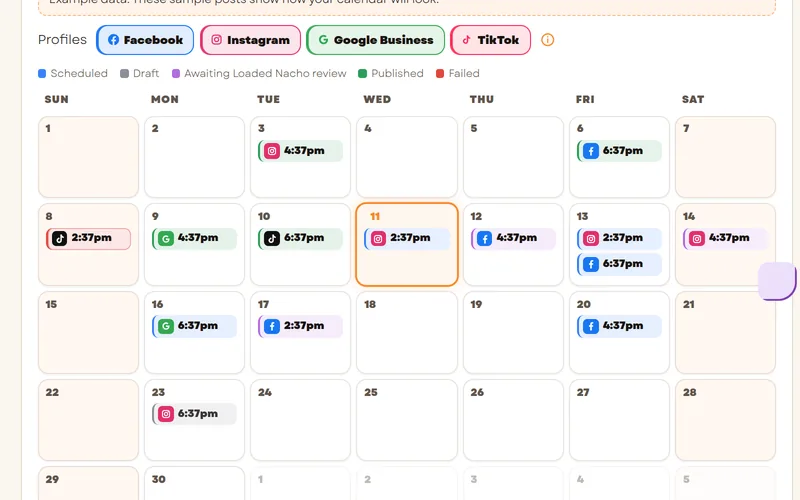
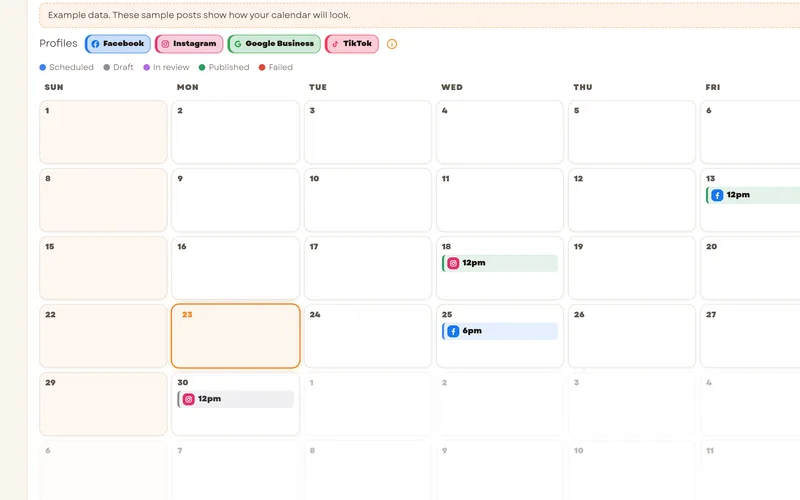
Mother Sauce screenshots: recapture all 11 from the 1.81.249 demo
The page still carried the Nov 11 old-UI set with fake reviews and active
badges. All 11 slots are now captured from the public demo in the client role
(Sample Owner), light theme, 2x, 1800x1200 window so the content column is
exactly 1500 CSS wide, then exported to the existing sizes.

- hero: five KPI cards with mixed results (visits 3% down, page views 3% down),
  today's hours, 7-day chart; no badges, no invented praise
- menu, reservations, catering menus (Party Trays), applications, team access,
  blog (published + scheduled + draft), notice contacts, social month view,
  review inbox (mixed ratings), analytics 30 days (visits 5% down, page views 2%
  up) - each from the current build, "Sample data" wording in every alt
- one new version everywhere: ?v=5 on all 11 images, both formats, the JSON-LD
  image and the hero on the main page
- alt text rewritten from Dot's table; no alt claims more than the shot shows

diff --git a/sites/loadednacho/public/mother-sauce.html b/sites/loadednacho/public/mother-sauce.html
@@ -16,7 +16,7 @@
 <meta property="og:image:alt" content="Loaded Nacho – restaurant websites and marketing in Oklahoma">
 <link rel="icon" href="/favicon.ico?v=8" sizes="48x48"><link rel="icon" type="image/png" sizes="32x32" href="/assets/img/favicon-32.png?v=8"><link rel="icon" type="image/png" sizes="16x16" href="/assets/img/favicon-16.png?v=8"><link rel="icon" type="image/png" sizes="192x192" href="/assets/img/favicon-192.png?v=8"><link rel="apple-touch-icon" href="/assets/img/apple-touch-icon.png?v=8"><link rel="preload" href="/assets/fonts/Garet-Heavy.woff2" as="font" type="font/woff2" crossorigin>
 
-<link rel="stylesheet" href="/assets/style.css?v=39"><link rel="stylesheet" href="/assets/theme.css?v=27"><link rel="stylesheet" href="/assets/ms.css?v=19"><script type="application/ld+json">{"@context": "https://schema.org", "@type": "SoftwareApplication", "name": "Mother Sauce", "url": "https://loadednacho.com/mother-sauce", "sameAs": ["https://mothersauce.app"], "applicationCategory": "BusinessApplication", "operatingSystem": "Web", "description": "Mother Sauce is the Loaded Nacho command center for restaurants: one sign-in to manage menus and hours, reservations, catering, hiring, team roles, blog, email alerts, social media, reputation and site analytics. A live demo with sample data is at https://mothersauce.app/demo.", "image": "https://loadednacho.com/assets/img/ms/ms-dashboard-hero.jpg?v=4", "potentialAction": {"@type": "ViewAction", "name": "Try the live demo", "target": "https://mothersauce.app/demo"}, "publisher": {"@type": "Organization", "name": "Loaded Nacho LLC", "url": "https://loadednacho.com/", "logo": {"@type": "ImageObject", "url": "https://loadednacho.com/assets/img/mark.png"}}}</script>
+<link rel="stylesheet" href="/assets/style.css?v=39"><link rel="stylesheet" href="/assets/theme.css?v=27"><link rel="stylesheet" href="/assets/ms.css?v=19"><script type="application/ld+json">{"@context": "https://schema.org", "@type": "SoftwareApplication", "name": "Mother Sauce", "url": "https://loadednacho.com/mother-sauce", "sameAs": ["https://mothersauce.app"], "applicationCategory": "BusinessApplication", "operatingSystem": "Web", "description": "Mother Sauce is the Loaded Nacho command center for restaurants: one sign-in to manage menus and hours, reservations, catering, hiring, team roles, blog, email alerts, social media, reputation and site analytics. A live demo with sample data is at https://mothersauce.app/demo.", "image": "https://loadednacho.com/assets/img/ms/ms-dashboard-hero.jpg?v=5", "potentialAction": {"@type": "ViewAction", "name": "Try the live demo", "target": "https://mothersauce.app/demo"}, "publisher": {"@type": "Organization", "name": "Loaded Nacho LLC", "url": "https://loadednacho.com/", "logo": {"@type": "ImageObject", "url": "https://loadednacho.com/assets/img/mark.png"}}}</script>
 </head><body>
 <div class="grain"></div>
 <header class="nav" id="nav"><a href="/" class="brand"><img src="/assets/img/mark.png" alt="" width="40" height="40"><span>LOADED<b>NACHO</b></span></a>
@@ -27,19 +27,19 @@
 <main>
 <section id="features" class="sec"><div class="head reveal"><p class="kicker">What's inside</p><h2>Everything in <span class="hl">one place.</span></h2><p class="small">Screens show a demo restaurant with sample data.</p></div>
 <div class="ms-shots">
-<div class="ms-shot reveal"><div class="txt"><h3>Menu Builder &amp; Hours</h3><p>Build and update your menu: dishes, prices, photos and sold-out items go live on your site. Set weekly hours for each location and handle holiday changes.</p></div><div class="ms-frame"><div class="bar"><i></i><i></i><i></i><span>mothersauce.app</span></div><picture><source type="image/webp" srcset="/assets/img/ms/ms-menu-builder.webp?v=4"><img src="/assets/img/ms/ms-menu-builder.jpg?v=4" alt="Mother Sauce menu builder with a Starters category: item name, price, description, photo, sold-out and catering toggles (demo data)" width="1500" height="938" loading="lazy" decoding="async"></picture></div></div>
-<div class="ms-shot reveal"><div class="txt"><h3>Reservations</h3><p>Every table request from your website lands in one list, so nothing slips through on a busy night.</p></div><div class="ms-frame"><div class="bar"><i></i><i></i><i></i><span>mothersauce.app</span></div><picture><source type="image/webp" srcset="/assets/img/ms/ms-reservations.webp?v=4"><img src="/assets/img/ms/ms-reservations.jpg?v=4" alt="Mother Sauce reservations screen with email alerts, booking rules, and upcoming bookings with call, email and status buttons (demo data)" width="1400" height="875" loading="lazy" decoding="async"></picture></div></div>
-<div class="ms-shot reveal"><div class="txt"><h3>Catering &amp; Catering Menus</h3><p>Publish catering menus separate from your main menu, and track every catering inquiry from first request to booked.</p></div><div class="ms-frame"><div class="bar"><i></i><i></i><i></i><span>mothersauce.app</span></div><picture><source type="image/webp" srcset="/assets/img/ms/ms-catering-menus.webp?v=4"><img src="/assets/img/ms/ms-catering-menus.jpg?v=4" alt="Mother Sauce catering menus screen showing a Party Trays menu with sizes, price per person, serves and minimum (demo data)" width="1500" height="938" loading="lazy" decoding="async"></picture></div></div>
+<div class="ms-shot reveal"><div class="txt"><h3>Menu Builder &amp; Hours</h3><p>Build and update your menu: dishes, prices, photos and sold-out items go live on your site. Set weekly hours for each location and handle holiday changes.</p></div><div class="ms-frame"><div class="bar"><i></i><i></i><i></i><span>mothersauce.app</span></div><picture><source type="image/webp" srcset="/assets/img/ms/ms-menu-builder.webp?v=5"><img src="/assets/img/ms/ms-menu-builder.jpg?v=5" alt="Mother Sauce menu builder with sample data: a Starters category and two items with prices, descriptions and sold-out toggles." width="1500" height="938" loading="lazy" decoding="async"></picture></div></div>
+<div class="ms-shot reveal"><div class="txt"><h3>Reservations</h3><p>Every table request from your website lands in one list, so nothing slips through on a busy night.</p></div><div class="ms-frame"><div class="bar"><i></i><i></i><i></i><span>mothersauce.app</span></div><picture><source type="image/webp" srcset="/assets/img/ms/ms-reservations.webp?v=5"><img src="/assets/img/ms/ms-reservations.jpg?v=5" alt="Mother Sauce reservations list with sample data: three upcoming requests with party sizes, notes and status controls." width="1400" height="875" loading="lazy" decoding="async"></picture></div></div>
+<div class="ms-shot reveal"><div class="txt"><h3>Catering &amp; Catering Menus</h3><p>Publish catering menus separate from your main menu, and track every catering inquiry from first request to booked.</p></div><div class="ms-frame"><div class="bar"><i></i><i></i><i></i><span>mothersauce.app</span></div><picture><source type="image/webp" srcset="/assets/img/ms/ms-catering-menus.webp?v=5"><img src="/assets/img/ms/ms-catering-menus.jpg?v=5" alt="Mother Sauce catering menus with sample data: a Party Trays menu with package sizes, price per person, servings and minimum." width="1500" height="938" loading="lazy" decoding="async"></picture></div></div>
 </div>
 <div class="head reveal ms-more-head"><p class="kicker">And more</p><h2>Everything else <span class="hl">you need.</span></h2></div>
 <div class="ms-grid">
-<article class="ms-card reveal"><div class="ms-frame"><picture><source type="image/webp" srcset="/assets/img/ms/ms-hiring-jobs-card.webp?v=4"><img src="/assets/img/ms/ms-hiring-jobs-card.jpg?v=4" alt="Mother Sauce job listings with pay, location, applicant counts and site status (demo data)" width="800" height="500" loading="lazy" decoding="async"></picture></div><h3>Hiring</h3><p>Post open jobs on your site and review applications as they come in.</p></article>
-<article class="ms-card reveal"><div class="ms-frame"><picture><source type="image/webp" srcset="/assets/img/ms/ms-team-roles-card.webp?v=4"><img src="/assets/img/ms/ms-team-roles-card.jpg?v=4" alt="Mother Sauce team screen: invite form with role presets and a per-section permission grid (demo data)" width="800" height="500" loading="lazy" decoding="async"></picture></div><h3>Team Roles</h3><p>Give managers and staff their own sign-in with the right level of access.</p></article>
-<article class="ms-card reveal"><div class="ms-frame"><picture><source type="image/webp" srcset="/assets/img/ms/ms-blog-card.webp?v=4"><img src="/assets/img/ms/ms-blog-card.jpg?v=4" alt="Mother Sauce blog posts list with published, scheduled and draft posts and a New post button (demo data)" width="800" height="500" loading="lazy" decoding="async"></picture></div><h3>Blog</h3><p>Write and publish posts to your website to share news, events and stories.</p></article>
-<article class="ms-card reveal"><div class="ms-frame"><picture><source type="image/webp" srcset="/assets/img/ms/ms-email-alerts-card.webp?v=4"><img src="/assets/img/ms/ms-email-alerts-card.jpg?v=4" alt="Mother Sauce notice contacts: email alert recipients with per-event toggles and Send test (demo data)" width="800" height="500" loading="lazy" decoding="async"></picture></div><h3>Email Alerts</h3><p>Get an email the moment a new reservation, catering request or application comes in.</p></article>
-<article class="ms-card reveal"><div class="ms-frame"><picture><source type="image/webp" srcset="/assets/img/ms/ms-social-card.webp?v=4"><img src="/assets/img/ms/ms-social-card.jpg?v=4" alt="Mother Sauce social calendar: an October month view with scheduled Facebook, Instagram, Google Business Profile and TikTok posts (demo data)" width="800" height="500" loading="lazy" decoding="async"></picture></div><h3>Social Media</h3><p>Schedule posts to Facebook, Instagram, Google Business Profile and TikTok — and let our AI replies handle the comments, messages and reviews that come back.</p></article>
-<article class="ms-card reveal"><div class="ms-frame"><picture><source type="image/webp" srcset="/assets/img/ms/ms-reputation-card.webp?v=4"><img src="/assets/img/ms/ms-reputation-card.jpg?v=4" alt="Mother Sauce review inbox: average rating and recent online reviews with new and done status and Open on Google buttons (demo data)" width="800" height="500" loading="lazy" decoding="async"></picture></div><h3>Reputation</h3><p>A review inbox with your recent online reviews, so you can see and respond to what guests are saying.</p></article>
-<article class="ms-card reveal"><div class="ms-frame"><picture><source type="image/webp" srcset="/assets/img/ms/ms-site-analytics-card.webp?v=4"><img src="/assets/img/ms/ms-site-analytics-card.jpg?v=4" alt="Mother Sauce analytics: visit and page view stats, a website traffic chart, traffic sources and top landing pages (demo data)" width="800" height="500" loading="lazy" decoding="async"></picture></div><h3>Site Analytics</h3><p>See how many people visit your site, where they come from and what they look at.</p></article>
+<article class="ms-card reveal"><div class="ms-frame"><picture><source type="image/webp" srcset="/assets/img/ms/ms-hiring-jobs-card.webp?v=5"><img src="/assets/img/ms/ms-hiring-jobs-card.jpg?v=5" alt="Mother Sauce applications with sample data: two new applications for a line cook and a server." width="800" height="500" loading="lazy" decoding="async"></picture></div><h3>Hiring</h3><p>Post open jobs on your site and review applications as they come in.</p></article>
+<article class="ms-card reveal"><div class="ms-frame"><picture><source type="image/webp" srcset="/assets/img/ms/ms-team-roles-card.webp?v=5"><img src="/assets/img/ms/ms-team-roles-card.jpg?v=5" alt="Mother Sauce team access with sample data: Owner/Admin and Manager/Viewer roles with location and section access." width="800" height="500" loading="lazy" decoding="async"></picture></div><h3>Team Roles</h3><p>Give managers and staff their own sign-in with the right level of access.</p></article>
+<article class="ms-card reveal"><div class="ms-frame"><picture><source type="image/webp" srcset="/assets/img/ms/ms-blog-card.webp?v=5"><img src="/assets/img/ms/ms-blog-card.jpg?v=5" alt="Mother Sauce blog posts with sample data: one published, one scheduled and one draft post." width="800" height="500" loading="lazy" decoding="async"></picture></div><h3>Blog</h3><p>Write and publish posts to your website to share news, events and stories.</p></article>
+<article class="ms-card reveal"><div class="ms-frame"><picture><source type="image/webp" srcset="/assets/img/ms/ms-email-alerts-card.webp?v=5"><img src="/assets/img/ms/ms-email-alerts-card.jpg?v=5" alt="Mother Sauce notice contacts with sample data: two contacts and per-event email toggles." width="800" height="500" loading="lazy" decoding="async"></picture></div><h3>Email Alerts</h3><p>Get an email the moment a new reservation, catering request or application comes in.</p></article>
+<article class="ms-card reveal"><div class="ms-frame"><picture><source type="image/webp" srcset="/assets/img/ms/ms-social-card.webp?v=5"><img src="/assets/img/ms/ms-social-card.jpg?v=5" alt="Mother Sauce social calendar with sample data: a month of published, scheduled and draft posts." width="800" height="500" loading="lazy" decoding="async"></picture></div><h3>Social Media</h3><p>Schedule posts to Facebook, Instagram, Google Business Profile and TikTok — and let our AI replies handle the comments, messages and reviews that come back.</p></article>
+<article class="ms-card reveal"><div class="ms-frame"><picture><source type="image/webp" srcset="/assets/img/ms/ms-reputation-card.webp?v=5"><img src="/assets/img/ms/ms-reputation-card.jpg?v=5" alt="Mother Sauce review inbox with sample data: two neutral sample reviews with mixed ratings and reply controls." width="800" height="500" loading="lazy" decoding="async"></picture></div><h3>Reputation</h3><p>A review inbox with your recent online reviews, so you can see and respond to what guests are saying.</p></article>
+<article class="ms-card reveal"><div class="ms-frame"><picture><source type="image/webp" srcset="/assets/img/ms/ms-site-analytics-card.webp?v=5"><img src="/assets/img/ms/ms-site-analytics-card.jpg?v=5" alt="Mother Sauce site analytics with sample data: 30-day visits and page views with mixed changes, a traffic chart and top sources." width="800" height="500" loading="lazy" decoding="async"></picture></div><h3>Site Analytics</h3><p>See how many people visit your site, where they come from and what they look at.</p></article>
 </div>
 </section>
 <section id="start" class="sec join reveal"><div class="join-in"><h2>Want Mother Sauce for your restaurant?</h2><p class="ms-incl">Included with every Loaded Nacho build-out.</p><div class="ms-ctas"><div class="ms-cta"><span class="ms-cta-l">Have an account?</span><a href="https://mothersauce.app/login" class="btn sm clog"><svg class="bi" viewBox="0 0 24 24" width="18" height="18" aria-hidden="true" focusable="false" fill="none" stroke="currentColor" stroke-width="2" stroke-linecap="round" stroke-linejoin="round"><path d="M15 3h4a2 2 0 0 1 2 2v14a2 2 0 0 1-2 2h-4"/><path d="M10 17l5-5-5-5"/><path d="M15 12H3"/></svg><span class="lb">Log in</span></a></div><div class="ms-cta"><span class="ms-cta-l">Want more info?</span><a href="/#contact" class="btn sm clog"><svg class="bi" viewBox="0 0 24 24" width="18" height="18" aria-hidden="true" focusable="false" fill="none" stroke="currentColor" stroke-width="2" stroke-linecap="round" stroke-linejoin="round"><path d="M5 12h14"/><path d="M13 6l6 6-6 6"/></svg><span class="lb">Contact us</span></a></div></div></div></section>

diff --git a/sites/loadednacho/public/index.html b/sites/loadednacho/public/index.html
@@ -53,7 +53,7 @@
    <p>One command center for your restaurant. Update your menu and hours, see reservations and catering requests, take online orders, run your social media, grow your loyalty club, send newsletters and keep customers engaged, check your numbers, and manage your team, all in one place.</p>
    <ul class="pills ms-pills"><li style="--c:var(--pink)">Menus</li><li style="--c:var(--orange)">Reservations</li><li style="--c:var(--yellow)">Loyalty</li><li style="--c:var(--lime)">Email</li><li style="--c:var(--pink)">Reputation</li><li style="--c:var(--orange)">Social media</li><li style="--c:var(--yellow)">Team management</li><li style="--c:var(--lime)">Online orders</li><li style="--c:var(--pink)">Hours</li><li style="--c:var(--orange)">Catering</li><li style="--c:var(--yellow)">Site analytics</li><li class="more" style="--c:var(--orange)">+ Much more</li></ul>
    <a href="/mother-sauce" class="btn"><svg class="bi" viewBox="0 0 24 24" width="18" height="18" aria-hidden="true" focusable="false" fill="none" stroke="currentColor" stroke-width="2" stroke-linecap="round" stroke-linejoin="round"><path d="M5 12h14"/><path d="M13 6l6 6-6 6"/></svg>See Mother Sauce</a></div>
-  <div class="ms-frame reveal"><div class="bar"><i></i><i></i><i></i><span>mothersauce.app</span></div><picture><source type="image/webp" srcset="/assets/img/ms/ms-dashboard-hero.webp?v=3"><img src="/assets/img/ms/ms-dashboard-hero.jpg?v=3" alt="Mother Sauce home dashboard for a demo restaurant: weekly visits, page views, reservations, catering requests, applications and sign-ups, a 7-day visits chart, recent online reviews and today’s hours" width="1400" height="875" loading="lazy" decoding="async"></picture></div>
+  <div class="ms-frame reveal"><div class="bar"><i></i><i></i><i></i><span>mothersauce.app</span></div><picture><source type="image/webp" srcset="/assets/img/ms/ms-dashboard-hero.webp?v=5"><img src="/assets/img/ms/ms-dashboard-hero.jpg?v=5" alt="Mother Sauce Home dashboard with sample data: five KPI cards, a 7-day visits chart and today’s hours." width="1400" height="875" loading="lazy" decoding="async"></picture></div>
  </div>
 </section>
 
